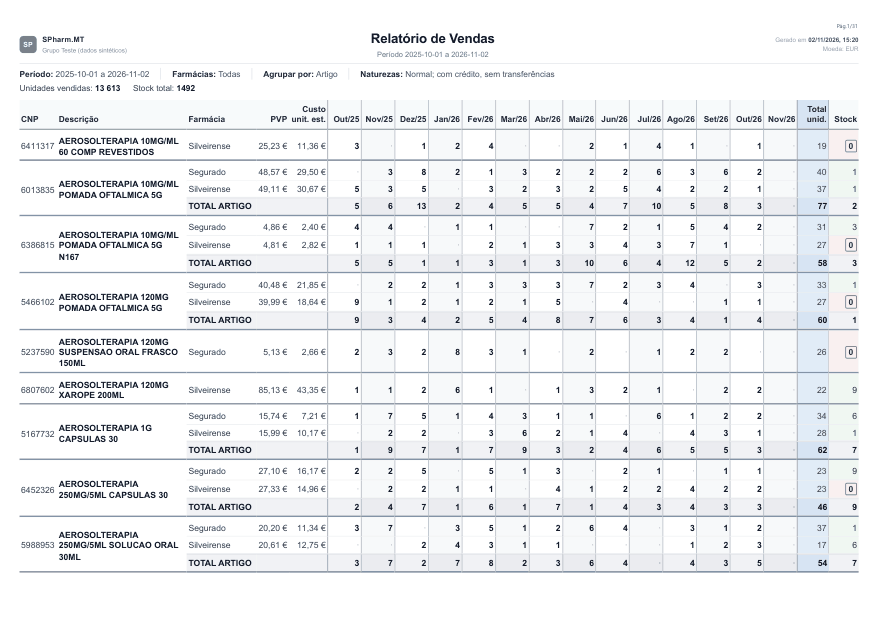
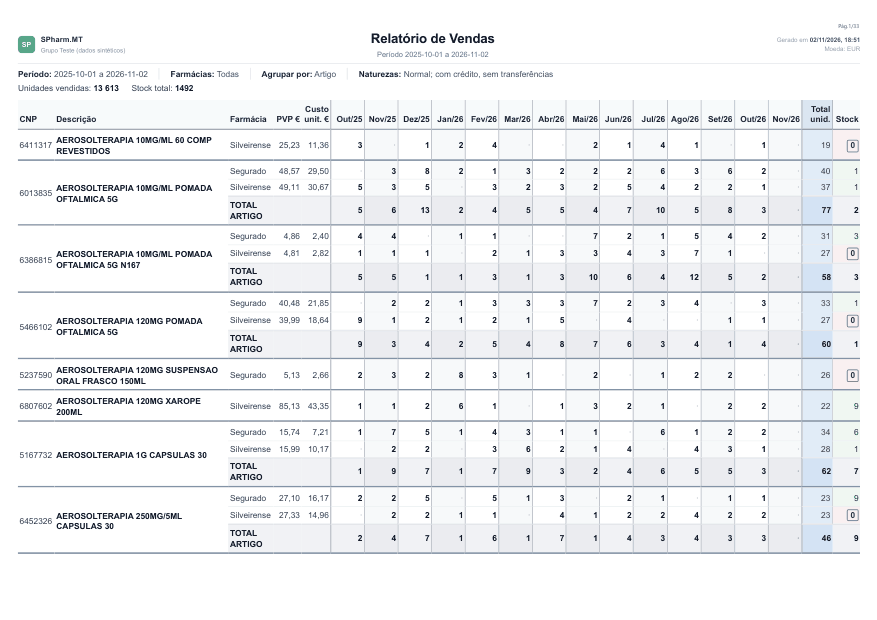
docs(vendas): limites numéricos, orçamento de largura, análise agregada do PDF real e evidência sintética (substitui capturas obsoletas)
Evidência com páginas do PDF real só em C:/projetos/_entregas (fora do Git).

diff --git a/scripts/e2e/gerar-pdf-cenario.ts b/scripts/e2e/gerar-pdf-cenario.ts
@@ -1,0 +1,21 @@
+/**
+ * Gera, com as opções do endpoint, os PDFs dos cenários SINTÉTICOS «PDF real ×1», «PDF real ×10» e «pior caso» (3 farmácias):
+ *   cd <árvore> && OUT=<pasta> npx tsx scripts/e2e/gerar-pdf-cenario.ts      →  <OUT>/real-x1.pdf, real-x10.pdf, pior-caso-3f.pdf
+ */
+import { mkdirSync } from "node:fs";
+import path from "node:path";
+import { dadosPiorCaso, dadosRealMult, FARMACIAS_3, FARMACIAS_CLIENTE } from "../tests/_cliente-real";
+import { abrirBrowser, pdfDe, relatorioLinhas } from "../tests/_tabela-unica";
+
+(async () => {
+  const out = process.env.OUT ?? "out";
+  mkdirSync(out, { recursive: true });
+  const b = await abrirBrowser();
+  const cen: [string, ReturnType<typeof relatorioLinhas>][] = [
+    ["real-x1", relatorioLinhas(dadosRealMult(1), 14, FARMACIAS_CLIENTE)],
+    ["real-x10", relatorioLinhas(dadosRealMult(10), 14, FARMACIAS_CLIENTE)],
+    ["pior-caso-3f", relatorioLinhas(dadosPiorCaso({ nFarm: 3, mesGrande: 99999, total: 999000, stock: 999000 }), 14, FARMACIAS_3)],
+  ];
+  for (const [nome, rel] of cen) console.log(await pdfDe(b, rel, path.join(out, `${nome}.pdf`)));
+  await b.close();
+})();

diff --git a/scripts/e2e/_evidencia_real.py b/scripts/e2e/_evidencia_real.py
@@ -1,0 +1,99 @@
+"""Evidência lado a lado: PDF REAL do cliente vs novo PDF A4 (cenário sintético «igual ou mais exigente»), à escala física 100 % (100 dpi:
+1 px = 0,254 mm; A4 horizontal = 1169 × 827 px).
+
+Uso: python _evidencia_real.py <real.pdf> <novo.pdf> <pasta_saida>
+Escreve FORA do Git (pasta de entregas): páginas 1, 29 e 57 do real; 1.ª, intermédia e última do novo; montagem com recorte; medidas e provas (md).
+O PDF real é dado comercial: nunca vai para o repositório.
+"""
+import collections
+import io
+import re
+import sys
+
+import pymupdf
+from PIL import Image, ImageDraw, ImageFont
+
+real_pdf, novo_pdf, out = sys.argv[1:4]
+MM = 25.4 / 72
+real, novo = pymupdf.open(real_pdf), pymupdf.open(novo_pdf)
+try:
+    F = ImageFont.truetype("C:/Windows/Fonts/arialbd.ttf", 22); FP = ImageFont.truetype("C:/Windows/Fonts/arial.ttf", 16)
+except Exception:
+    F = FP = ImageFont.load_default()
+
+
+def img(doc, i, dpi=100, clip=None):
+    pg = doc[i]
+    pix = pg.get_pixmap(dpi=dpi, clip=clip)
+    return Image.open(io.BytesIO(pix.tobytes("png"))).convert("RGB")
+
+
+def guardar(im, nome):
+    im.quantize(colors=64, method=Image.Quantize.MEDIANCUT).save(f"{out}/{nome}", optimize=True)
+    print(nome, im.size)
+
+
+meio_novo = novo.page_count // 2
+for nome, doc, i in [("real-p01.png", real, 0), ("real-p29-bloco2.png", real, 28), ("real-p57-ultima.png", real, real.page_count - 1),
+                     ("novo-p01.png", novo, 0), (f"novo-p{meio_novo + 1:02d}-intermedia.png", novo, meio_novo), (f"novo-p{novo.page_count:02d}-ultima.png", novo, novo.page_count - 1)]:
+    guardar(img(doc, i), nome)
+
+# montagem: linha 1 = páginas inteiras a 100 dpi lado a lado; linha 2 = recorte de 100 × 62 mm do canto sup. esquerdo (zona da tabela) a 200 dpi
+a, b = img(real, 0), img(novo, 0)
+clip = pymupdf.Rect(real[0].rect.width * 0.42, 80, real[0].rect.width * 0.42 + 100 / MM, 80 + 62 / MM)
+ca, cb = img(real, 0, 200, clip), img(novo, 0, 200, clip)
+W = a.width + b.width + 3 * 24
+H = 70 + a.height + 40 + 30 + ca.height + 24
+cv = Image.new("RGB", (W, H), "white")
+d = ImageDraw.Draw(cv)
+d.text((24, 8), "Escala física 100 % (100 dpi): A4 horizontal = 1169 × 827 px; 1 px = 0,254 mm", fill="black", font=FP)
+d.text((24, 32), "ESQUERDA: PDF real do cliente (57 págs., Segoe UI 6-7,5 pt, «Parte 1 de 2»)", fill=(150, 0, 0), font=F)
+d.text((a.width + 48, 32), "DIREITA: novo A4 (" + str(novo.page_count) + " págs., Arial 8,025 pt, 14 meses numa só tabela)", fill=(0, 100, 0), font=F)
+cv.paste(a, (24, 70)); cv.paste(b, (a.width + 48, 70))
+y2 = 70 + a.height + 20
+d.text((24, y2), "Recorte de 100 × 62 mm a 200 dpi (mesma zona, meses do meio da tabela, ampliado 2× só para leitura no ecrã)", fill="black", font=FP)
+cv.paste(ca, (24, y2 + 30)); cv.paste(cb, (a.width + 48, y2 + 30))
+guardar(cv, "montagem-real-vs-novo.png")
+
+
+# ---- medidas de letra e provas
+def fontes(doc):
+    c = collections.Counter()
+    for p in doc:
+        for bl in p.get_text("dict")["blocks"]:
+            for l in bl.get("lines", []):
+                for s in l["spans"]:
+                    c[(round(s["size"], 2), s["font"])] += len(s["text"])
+    return c
+
+
+def provas(doc, nome):
+    cnps_col = []
+    tg = rs = 0
+    meses_pag = []
+    tam = collections.Counter()
+    for p in doc:
+        w = p.get_text("words")
+        w0 = p.rect.width
+        cnps_col += [x[4] for x in w if re.fullmatch(r"\d{7}", x[4]) and x[0] < w0 * 0.12]
+        tg += sum(1 for x in w if x[4] == "GERAL")
+        rs += sum(1 for x in w if x[4] == "RESUMO")
+        meses_pag.append(sum(1 for x in w if re.fullmatch(r"(Jan|Fev|Mar|Abr|Mai|Jun|Jul|Ago|Set|Out|Nov|Dez)/\d\d", x[4])))
+    return {"nome": nome, "paginas": doc.page_count, "A4": f"{doc[0].rect.width:.1f}x{doc[0].rect.height:.1f}", "cnp_ocorrencias": len(cnps_col), "cnp_distintos": len(set(cnps_col)),
+            "TOTAL_GERAL": tg, "RESUMO": rs, "meses_por_pagina_min_max": (min(meses_pag), max(meses_pag))}
+
+
+L = ["# Medidas e provas — PDF real vs novo A4 (cenário sintético ×10)", "", "## Tamanhos de letra (caracteres por tamanho/tipo)", ""]
+for nome, doc in (("REAL", real), ("NOVO", novo)):
+    c = fontes(doc); tot = sum(c.values())
+    L.append(f"**{nome}** ({tot} caracteres):")
+    for (s, f), n in c.most_common(8):
+        L.append(f"- {s} pt {f}: {n} ({100 * n / tot:.1f} %)")
+    L.append("")
+L += ["## Provas por script", "", "| PDF | páginas | página (pt) | CNP na coluna CNP (ocorrências) | CNP distintos | «GERAL» | «RESUMO» | cabeçalhos «Mmm/AA» por página (mín–máx) |", "|---|---|---|---|---|---|---|---|"]
+for nome, doc in (("real", real), ("novo", novo)):
+    p = provas(doc, nome)
+    L.append(f"| {p['nome']} | {p['paginas']} | {p['A4']} | {p['cnp_ocorrencias']} | {p['cnp_distintos']} | {p['TOTAL_GERAL']} | {p['RESUMO']} | {p['meses_por_pagina_min_max']} |")
+L += ["", "No real, cada CNP aparece 2× (um por «Parte») e os cabeçalhos «Mmm/AA» não existem (meses em duas linhas, 7 por parte). No novo: 326 = 326, um só TOTAL GERAL, um só resumo, 14 meses em cada página."]
+open(f"{out}/medidas-e-provas.md", "w", encoding="utf8").write("\n".join(L) + "\n")
+print("\n".join(L))

diff --git a/scripts/e2e/_comparar_a4.py b/scripts/e2e/_comparar_a4.py
@@ -20,7 +20,7 @@ import pymupdf
 from PIL import Image, ImageDraw, ImageFont
 
 a_pdf, b_pdf, c_pdf, out = sys.argv[1:5]
-ROT = [("A", "A · PDF atual (a012428): blocos temporais, A4", a_pdf), ("B", "B · solução A3 automática (4d4ef19) — rejeitada", b_pdf), ("C", "C · NOVA: A4 horizontal, tabela única (corpo 8,25 pt, cabeçalhos 8 pt)", c_pdf)]
+ROT = [("A", "A · PDF atual (a012428): blocos temporais, A4", a_pdf), ("B", "B · solução A3 automática (4d4ef19) — rejeitada", b_pdf), ("C", "C · NOVA: A4 horizontal, tabela única (corpo e cabeçalhos 8,025 pt)", c_pdf)]
 MM = 25.4 / 72
 try:
     FONTE = ImageFont.truetype("C:/Windows/Fonts/arialbd.ttf", 22)

diff --git a/notes/vendas-tabela-unica.md b/notes/vendas-tabela-unica.md
@@ -21,30 +21,53 @@ O PDF de `a012428` repartia o período em «blocos temporais» (Parte 1 de 2 / P
 ## 2. Decisões (o que mudou face ao 1.º desenho)
 
 - **Formato**: A4 horizontal (297×210 mm) SEMPRE — PDF, impressão, PDF do email, pré-visualização. Sem A3, sem escala, sem blocos.
-- **Tipografia** (`lib/reporting/layout-largura.ts`): corpo da tabela (CNP, Descrição, Farmácia, PVP, custo, **meses**, total, stock) **8,25 pt** (11 px;
-  o mesmo que os números da solução A3 rejeitada); cabeçalhos a negrito **8 pt**; CNP e Descrição = valores mensais. Nunca abaixo de 8 pt. Tipo de letra
-  fixo `Arial, "Liberation Sans"` (métricas Arial; o contentor tem `fonts-liberation`), por isso a largura calcula-se com larguras reais de glifo
-  (`metricas-fonte.ts`, validado contra o PDF: «Nov/26» 34,96 px medido vs 35,0 calculado).
-- **Colunas da tabela**: CNP · Descrição · Farmácia · PVP* · Custo unit. est.* · N meses «Out/25» (uma linha) · **Total unid.** · **Stock** (*opções de preços).
-- **Totais financeiros fora da tabela**: «Custo total est.» e «Valor Vendas (s/IVA)» passam a `excelOnly` (semântica confirmada: só no Excel, nunca em
-  HTML/PDF/impressão) e os seus totais vão para o **RESUMO FINANCEIRO** no fim (`meta.resumoFinal`, uma só vez): Unidades vendidas, Stock total, Custo total
-  estimado (só com preços de compra; «PARCIAL: N linha(s) sem custo conhecido» — a lógica de `custoTotalDoRelatorio`), Valor total de vendas s/IVA (só com
-  preços de venda). Sem preços → título «Resumo» só com unidades e stock. `aplicarPrivacidade` retira os itens sensíveis (também no servidor).
-- **TOTAL ARTIGO**: só com > 1 farmácia; só totais mensais, total de unidades e stock; PVP/custo unit. **vazios** no HTML/PDF (`ReportColumn.vazioNoSubtotal`);
-  no Excel a linha mantém-se como estava.
-- **Excel idêntico a a012428** (comparação célula a célula, ver §5): para > 13 meses `a012428` trazia «Período: …» e os totais depois do Stock; essa folha mantém-se
-  exatamente (posições e rótulos), só no Excel (`label`; o HTML usa `htmlLabel`).
-- **Larguras (ordem de prioridade)**: meses abreviados «Out/25» → margens laterais **6,5 mm** (≥ 5 mm de segurança) → padding horizontal 5→4→3→2,5→2 px **antes**
-  de tocar na letra → mês com a largura do seu maior texto (dados: dígitos, sinal, separador) → Descrição com quebra (mín. 32 mm, preferida 48 mm) →
-  PVP/custo compactos → totais financeiros fora. Nunca truncar nem reticências.
-- **Excesso**: `capacidadeA4(dados, opcoes)` (função pura) → `{cabe, mesesMax, padPx, pct…, mensagem}`; `capacidadeDoRelatorio(report)` (lib/reporting/layout-vendas.ts) usa-a
-  no adapter, no servidor e na UI. Se não cabe: **não há PDF/impressão/PDF de email/pré-visualização**; mensagem
-  **«O período de N meses não cabe numa página A4 legível (máximo M meses com estas opções). Reduza o período, retire preços ou use o Excel.»**;
-  `/api/reports/pdf` e `/api/reports/email` (com PDF) → **HTTP 422** com o mesmo texto; o Excel e a tabela do ecrã continuam sem limite. Onde: `ReportActions`
-  (aviso ao clicar Imprimir/PDF, aviso no diálogo de email), `printReport`, `renderReportHtml` (devolve só a mensagem — é o que a pré-visualização «Relatório» mostra),
-  `buildReportPdfBuffer` (erro tipado `RelatorioNaoCabeA4Error`). `components/vendas/vendas-client.tsx` **não foi alterado**.
-- Período > capacidade: **análise e proposta** (trimestres, por farmácia, etc.) em `notes/vendas-periodos-longos-proposta.md` — sem decisão.
+- **Tipografia**: TUDO na tabela (corpo e cabeçalhos) a **10,7 px = 8,025 pt** (o PDF mede 8,02 pt; ≥ 8,0 pt). CNP e Descrição = valores mensais. Tipo de letra fixo
+  `Arial, "Liberation Sans"` (métricas Arial; o contentor tem `fonts-liberation`), por isso a largura calcula-se com larguras reais de glifo (`metricas-fonte.ts`).
+  (Decisão revista: o corpo esteve a 8,25 pt; baixou-se a 8,025 pt para garantir os 14 meses nos limites abaixo. Os meses ficam 0,23 pt abaixo dos 8,25 pt da solução A3 rejeitada.)
+- **Colunas da tabela**: CNP · Descrição · Farmácia · PVP €* · Custo unit. €* · N meses «Out/25» (uma linha) · **Total unid.** · **Stock** (*opções de preços).
+- **«€» no cabeçalho**: as células de PVP e custo unitário mostram «9999,99» sem « €»; o símbolo está no cabeçalho («PVP €», «Custo unit. €»). Só HTML/PDF/impressão
+  (`ReportColumn.semSimbolo` + `htmlLabel`); o Excel continua com o formato monetário e os rótulos de sempre.
+- **Totais financeiros fora da tabela**: «Custo total est.» e «Valor Vendas (s/IVA)» são `excelOnly` e os seus totais vão para o **RESUMO FINANCEIRO** no fim (`meta.resumoFinal`, uma só
+  vez): Unidades vendidas, Stock total, Custo total estimado (só com preços de compra; «PARCIAL: N linha(s) sem custo conhecido»), Valor total de vendas s/IVA (só com preços de venda).
+  Sem preços → título «Resumo» só com unidades e stock. `aplicarPrivacidade` retira os itens sensíveis (também no servidor).
+- **TOTAL ARTIGO**: só com > 1 farmácia; só totais mensais, total de unidades e stock; PVP/custo vazios no HTML/PDF; o rótulo quebra em duas linhas («TOTAL / ARTIGO»).
+- **Farmácia**: coluna elástica que quebra linha (`ReportColumn.quebra`): conteúdo ≤ 54 px (cabe «Silveirense»); nomes longos (até 32 caracteres testados) quebram entre palavras e dentro da palavra.
+- **Excel idêntico a a012428** (12 cenários, célula a célula). Para > 13 meses `a012428` trazia «Período: …» e os totais depois do Stock; essa folha mantém-se exatamente.
+- **Excesso e GARANTIA DOS 14 MESES** (`lib/reporting/layout-largura.ts`, função pura `capacidadeA4`):
+  - **Até 14 meses** a decisão NÃO depende de heurística sobre os dados: dentro dos **limites numéricos fixos** abaixo, 14 meses (e menos) CABEM SEMPRE, com preços de venda E de compra,
+    corpo ≥ 8 pt, Descrição ≥ 45 mm e sem cortar nada. A prova é o orçamento de largura do pior caso simultâneo (`orcamentoPiorCaso`, teste «PROVA POR CÁLCULO») e uma grelha de 13 824 combinações.
+  - **Só se recusa (HTTP 422)** quando algum valor ultrapassa um limite; a mensagem diz o valor e o limite concretos, p.ex.
+    «PVP de 12 345,67 € excede o limite de 9 999,99 € do PDF A4 legível. Reduza a seleção, retire preços ou use o Excel.» (idem custo unitário, valor mensal, total de unidades, stock).
+    Com «Incluir preços de venda/compra» desligado o respetivo limite não se aplica.
+  - **Acima de 14 meses** a capacidade depende dos DADOS (largura do maior texto de cada coluna) e a mensagem é
+    **«O período de N meses não cabe numa página A4 legível (máximo M meses com estas opções). Reduza o período, retire preços ou use o Excel.»**
+  - Onde: `ReportActions` (aviso ao clicar Imprimir/PDF e no diálogo de email; o aviso é `pointer-events-none` e desaparece em 8 s), `printReport`, `renderReportHtml` (só a mensagem — é o que a pré-visualização
+    mostra), `buildReportPdfBuffer` (`RelatorioNaoCabeA4Error`), rotas `/api/reports/pdf` e `/api/reports/email` (422). `components/vendas/vendas-client.tsx` **não foi alterado**.
+- Períodos de 24/27 meses: **análise e proposta** em `notes/vendas-periodos-longos-proposta.md` — sem decisão.
 
+### Limites numéricos fixos (valores em módulo)
+| Valor | Limite |
+|---|---|
+| PVP e custo unitário | **9 999,99 €** |
+| Qualquer valor mensal (célula, TOTAL ARTIGO, TOTAL GERAL), positivo ou negativo | **99 999** (inclui «−99 999») |
+| Total unid. e Stock (linhas, TOTAL ARTIGO, TOTAL GERAL) | **999 999** (inclui negativos) |
+| Descrição | qualquer comprimento (quebra); largura garantida **≥ 45 mm** |
+| Farmácia | qualquer nome (quebra); 2 e 3 farmácias por artigo |
+| Meses garantidos | **14** |
+
+### Orçamento de largura do pior caso (mm; 14 meses; padding 1,5 px; margens laterais de 6 mm ⇒ útil 285 mm)
+Larguras de glifo reais (Arial Bold 10,7 px, +1 % e +1 px de segurança); pior caso simultâneo: PVP/custo «9999,99», mensal «-99 999», total/stock «-999 999», CNP de 7 dígitos, «Silveirense».
+
+| venda | compra | CNP | Farmácia | PVP € | Custo € | Total unid. | Stock | 14 × mês (11,28 cada) | fixos + meses | sobra para a Descrição |
+|---|---|---|---|---|---|---|---|---|---|---|
+| sim | sim | 12,2 | 15,1 | 11,4 | 11,4 | 12,9 | 13,9 | 158,0 | 234,8 | **50,2** |
+| sim | não | 12,2 | 15,1 | 11,4 | — | 12,9 | 13,9 | 158,0 | 223,5 | 61,5 |
+| não | sim | 12,2 | 15,1 | — | 11,4 | 12,9 | 13,9 | 158,0 | 223,5 | 61,5 |
+| não | não | 12,2 | 15,1 | — | — | 12,9 | 13,9 | 158,0 | 212,1 | 72,9 |
+
+Poupanças de largura aplicadas por esta ordem (sem baixar de 8 pt): cabeçalhos compactos («PVP €», «Custo unit. €», «Out/25»), «€» fora das células, margens de 6 mm, padding 5 → 1,5 px
+(quando os dados reais deixam espaço o padding sobe; com o pior caso fica em 1,5 px), Farmácia a quebrar linha, larguras por dígitos máximos dos limites, Descrição como coluna elástica.
+Mês: «-99 999» = 37,3 px vs «Nov/26» a negrito = 35 px.
 ## 3. Regra final de paginação (só vertical)
 - Cada artigo (farmácias + TOTAL ARTIGO) é um `<tbody class="row-group">` com `break-inside: avoid`: **nunca dividido** (verificado em PDFs de 12-56 artigos e no PDF de 31 páginas).
 - `thead { display: table-header-group }` repete o cabeçalho completo (os 14 meses…) em todas as páginas; sem `<tfoot>`.
@@ -53,85 +76,44 @@ O PDF de `a012428` repartia o período em «blocos temporais» (Parte 1 de 2 / P
   só com totais (varrimento de 12 a 56 artigos, `test-vendas-tabela-unica` C5). Filete de 2 px entre artigos (borda inferior da última linha) e separadores verticais
   de mês de 1 px mantêm-se.
 
-## 4. Capacidade (nº máximo de meses numa página A4 horizontal, corpo 8,25 pt)
+## 4. Capacidade acima de 14 meses (depende dos dados; margens de 6 mm, útil 285 mm)
 
-Largura útil 284 mm. Larguras mínimas com os dados do cliente (pad 2 px): CNP 12,8 · Farmácia 23,4 · PVP 11,1 · Custo unit. 13,0 · Total unid. 10,8 · Stock 10,0 mm · **mês 11,4 mm** · Descrição ≥ 32 mm.
-
-| Preços de venda | Preços de compra | dados moderados (totais mensais até 4 dígitos, PVP ≤ 91,80 €) | extremos (123 456 un., −12 345, 12 345,67 €, 1 234 567 total) |
+| Preços de venda | Preços de compra | dados moderados (≤ 1 077 por mês; PVP ≤ 91,80 €) | pior caso dos limites |
 |---|---|---|---|
-| sim | sim | **14** | 10 |
-| sim | não | 16 | 11 |
-| não | sim | 15 | 11 |
-| não | não | 17 | 12 |
+| sim | sim | 15 | 14 |
+| sim | não | 16 | 15 |
+| não | sim | 16 | 15 |
+| não | não | 17 | 16 |
 
-(O requisito de 14 meses cumpre-se, com folga mínima, só com todos os preços ligados e dados moderados; com os dados do cliente: 14 meses, Descrição 43,9 mm.) 24 e 27 meses
-**não cabem em nenhuma combinação** → mensagem.
-
+Até 14 meses: **sempre cabe** dentro dos limites (ver §2). 24 e 27 meses não cabem em nenhuma combinação → mensagem.
 ## 5. Testes (comandos e resultados)
 
-`TEST_PG_ADMIN_URL=postgresql://postgres:test@localhost:15433/postgres npx tsx scripts/tests/<teste>.ts`
+`export TEST_PG_ADMIN_URL=postgresql://postgres:test@localhost:15433/postgres; npx tsx scripts/tests/<teste>.ts` — resultados finais no relatório de entrega (SHA final).
 
-| Teste | Resultado |
-|---|---|
-| `test-vendas-tabela-unica` (reescrito: capacidade pura, estrutura, ~45 PDFs reais, impressão, Excel vs a012428, 24/27 meses, rotas HTTP reais 200/422, outros relatórios, controlo negativo) | **189 OK, 0 falhas** |
-| `test-vendas-mapa-visual` | 316 OK |
-| `test-vendas-pdf-layout` | 42 OK |
-| `test-vendas-impressao-hierarquia` | 26 OK |
-| `test-vendas-separadores-meses` | 55 OK |
-| `test-vendas-precos-pvp-stock` | 134 OK |
-| `test-reporting-redesign` | 133 OK |
-| `test-reporting-uniformizacao` | 107 OK |
-| `test-margens` / `test-margens-pdf-modos` / `test-margens-stock` | 118 / 382 / 159 OK |
-| `test-workspace-separadores` / `test-export-cabecalho-laboratorio` / `test-export-mesma-ordem-do-ecra` | 37 / 27 / 28 OK |
-| `test-vendas-loader-pvp-stock-db` (Postgres descartável) | 24 OK |
-| `tsc --noEmit`, `eslint` (lib/reporting, components/reporting, app/api/reports, testes novos) | 0 erros |
+`test-vendas-tabela-unica` cobre: capacidade pura (limites, orçamento do pior caso, grelha de 13 824 combinações, mensagens com o limite concreto, capacidade > 14 meses); estrutura (colunas,
+«€» no cabeçalho, resumo financeiro por combinação, TOTAL ARTIGO, Excel); PDFs reais (Chromium → PyMuPDF + geometria no DOM) de 1/3/6/12/13/14 meses, capacidade máxima, 1/2/3 farmácias,
+**«PDF real ×1 e ×10»** (326 artigos, 326 CNP distintos = 326 ocorrências, 1 TOTAL GERAL, 1 resumo, 14 cabeçalhos de mês por página), PVP/custo de 9,99 / 99,99 / 999,99 / 9 999,99 €,
+valores mensais de 9 … 99 999 (±), total/stock até 999 000, **pior caso simultâneo** com 2 e 3 farmácias e as 4 combinações de preços, varrimento de paginação, impressão = PDF, Excel idêntico a a012428,
+24/27 meses → mensagem, rotas HTTP reais (200/422), HTML/CSS de outros relatórios idênticos a a012428, controlo negativo.
+Em cada PDF: A4 horizontal, 14 meses na mesma tabela, corpo ≥ 8 pt, nenhuma célula a transbordar (Range vs caixa), nenhum token fora da sua coluna, nenhum CNP repetido, nenhum artigo dividido, um TOTAL GERAL e um resumo.
 
-Falhas pré-existentes (idênticas em `a012428`, não relacionadas): `test-fase1-economia-ordenacao` (3), `test-excessos-transferencias` (2).
+Testes antigos alterados (afirmavam o desenho anterior; comentário «2026-11»): `test-vendas-pdf-layout`, `test-vendas-precos-pvp-stock` (sentinelas ≤ 9 999,99 €: os de 11 111,11 € ultrapassam o limite), `test-reporting-redesign`,
+`test-vendas-mapa-visual` (idem; «TOTAL ARTIGO» em duas linhas), `test-vendas-separadores-meses`. E2E: `vendas-tabela-unica-browser`, `vendas-mapa-visual-browser` (custos de teste ≤ 9 999,99 €), `vendas-opcoes-browser`,
+`vendas-separador-browser`, `vendas-separadores-meses-browser`.
 
-O que o `test-vendas-tabela-unica` prova (sobre PDFs REAIS lidos com PyMuPDF e a geometria das colunas no DOM em mídia print): A4 horizontal em todas as páginas (841,9×595 pt); 14 meses
-«Out/25…Nov/26» na MESMA tabela e página; cada CNP uma só vez, em sequência; cada valor por linha = o do relatório (PVP, custo, meses, total, stock); PVP/custo vazios no TOTAL ARTIGO;
-letra do corpo 8,25 pt (7,99 pt os cabeçalhos = 8 pt, arredondamento do Chromium), CNP/Descrição ≥ meses; nenhuma célula a transbordar (Range vs caixa de conteúdo) nem token fora da sua coluna;
-um só «Total unid.», um só «Stock», um só TOTAL GERAL e um só resumo, no fim e com artigos; artigo nunca dividido; sem «Parte/bloco/Período:»; separadores verticais dos meses (15 por página); impressão = PDF
-do endpoint (mesmo texto página a página); pré-visualização = impressão = PDF = email (mesmo HTML); Excel **idêntico** a `a012428` em 12 cenários (todas as células, tipos, formatos, larguras, fusões, filtro;
-1/3/6/12/13/14/24/27 meses, 4 combinações de preços, valores extremos, agrupar por farmácia); 1, 3, 6, 12, 13, 14 meses e capacidade máxima por combinação, 1/2/3 farmácias, valores elevados/negativos;
-24 e 27 meses: mensagem exata, sem tabela, Excel completo, rotas reais 422; HTML e CSS de outros relatórios byte a byte iguais aos de a012428; controlo negativo (a análise acusa letra de 7 pt e colunas erradas).
-
-Testes antigos alterados (afirmavam o desenho anterior; cada alteração tem comentário «2026-11»): `test-vendas-pdf-layout` (meses «Jan/26» numa linha, «Total unid.»), `test-vendas-precos-pvp-stock`
-(cabeçalhos sem «Valor Vendas»/«Custo total», resumo financeiro por combinação, 27 meses lidos nas colunas), `test-reporting-redesign` (sem densidade; TOTAL ARTIGO com células vazias em vez de «—»),
-`test-vendas-mapa-visual` (custo total por linha só no Excel; totais no resumo; sem «+1 px»; tom de mês sólido; 27 meses → mensagem), `test-vendas-separadores-meses` (27 meses → capacidade máxima).
-E2E escritos e **não executados**: `vendas-tabela-unica-browser` (reescrito), `vendas-mapa-visual-browser`, `vendas-opcoes-browser`, `vendas-separador-browser`, `vendas-separadores-meses-browser`.
-
-## 6. Evidência (`docs/validacao-visual/2026-11-vendas-tabela-unica/`)
-
-Dados sintéticos calibrados (`scripts/tests/_cliente-real.ts`): 326 artigos, Segurado + Silveirense, 14 meses, TOTAL GERAL 980…15 por mês (máx. 1 077), 13 613 unidades (o real: 14 350 — inconciliável com
-máx. 1 077/mês), stock 1 492 (máx. 133), PVP ≤ 91,80 €, custo ≤ 48,18 €.
-
-| Ficheiro | Conteúdo |
-|---|---|
-| `montagem-comparacao-escala-fisica.png` | linha 1: 1.ª página de A (a012428, 57 pág.), B (A3 rejeitado, 20 pág.) e C (nova, 31 pág.) ao mesmo DPI; linha 2: recorte de 297×210 mm do mesmo canto de cada, a 100 dpi |
-| `medidas-comparacao.md` | tamanhos de letra e altura de algarismo medidos nas spans (A, B, C) |
-| `comparacao-A-…-p1.png`, `comparacao-B-A3-p1.png`, `comparacao-C-A4-p1.png` | 1.ª página de cada um |
-| `depois-A4-14m-p1.png`, `-pmid.png`, `-ultima.png` | A4 horizontal, 14 meses numa tabela; última página com o fim do último artigo, TOTAL GERAL e resumo financeiro |
-| `depois-excesso-27m-mensagem.png` | pré-visualização/PDF para 27 meses: só a mensagem |
-| `antes-vendas-14m-*`, `antes-vendas-27m-*`, `antes-vendas-14m-24-artigos.pdf` | mantidos (a012428: blocos) |
-
-Medidas (PyMuPDF; mm = pt × 0,3528; algarismo = tamanho × 0,716):
-
-| | papel | pág. | CNP | Descrição | valores mensais | cabeçalhos |
-|---|---|---|---|---|---|---|
-| A · a012428 | A4 | 57 | 6,75 pt (1,71 mm) | 6,75 pt | 7,5 pt (1,89 mm) | 6,0 pt (1,52 mm) |
-| B · A3 rejeitado | **A3** | 20 | 7,5 pt (1,89 mm) | 7,5 pt | 8,25 pt (2,08 mm) | 6,75 pt (1,71 mm) |
-| C · nova | A4 | 31 | **8,25 pt (2,08 mm)** | 8,25 pt | **8,25 pt (2,08 mm)** | **8,0 pt (2,02 mm)** |
-
-Logo, fisicamente a letra de C ≥ B (mesmo A3) e > A em todas as categorias, e a tabela cabe num único A4.
-
+**Falhas pré-existentes** (idênticas em `a012428`): `test-fase1-economia-ordenacao` (3), `test-excessos-transferencias` (2).
+## 6. Evidência
+- **No Git** (`docs/validacao-visual/2026-11-vendas-tabela-unica/`, só dados SINTÉTICOS): `montagem-comparacao-escala-fisica.png` (A: a012428, B: A3 rejeitado, C: nova, mesma escala), `medidas-comparacao.md`,
+  `depois-A4-x10-p1/-pmid/-ultima.png` (cenário «real ×10»), `depois-A4-pior-caso-3f-p1.png` (pior caso, 3 farmácias), `depois-excesso-27m-mensagem.png`, `antes-*` (a012428).
+- **Fora do Git** (`C:\projetos\_entregas\vendas-a4-evidencia\`): páginas do PDF REAL (1, 29, 57) e do novo (1, intermédia, última) a 100 dpi (= escala física 100 %: 1 px = 0,254 mm; A4 horizontal = 1169 × 827 px),
+  `montagem-real-vs-novo.png`, `medidas-e-provas.md` (fontes, 326 = 326 CNP, 1 TOTAL GERAL, 1 resumo, 14 cabeçalhos por página). Análise agregada do PDF real: `notes/vendas-pdf-real-analise.md`.
+- Medidas A/B/C sintéticas: A (a012428) CNP/Descrição 6,75 pt, meses 7,5 pt, cabeçalhos 6,0 pt; B (A3) 7,5 / 8,25 / 6,75 pt; C (nova) **8,02 pt em tudo**.
 ## 7. Riscos
-- Capacidade com folga mínima: 14 meses com todos os preços e dados moderados cabem (Descrição 43,9 mm no caso do cliente), mas valores muito largos (PVP ≥ 100 €, 6 dígitos num mês) reduzem a capacidade para 10-13 meses → mensagem. É deliberado (nunca letra < 8 pt).
-- A capacidade (e o «máximo M») depende dos dados do resultado selecionado, não só do período.
-- Larguras assumem Arial/Liberation Sans. Num browser sem nenhuma das duas, a pré-visualização/impressão pode quebrar; o PDF do servidor usa o Chromium do contentor (fonts-liberation instalado — `deploy/docker/Dockerfile`).
-- O Excel de > 13 meses conserva as etiquetas «Período: …» de a012428 (decisão para não mudar o Excel).
-- PDF: o Chromium gera PDFs «tagged» (~200 KB/página); inalterado (opção do endpoint).
-- E2E de browser não executados; ver §8.
+- Os 14 meses só são garantidos DENTRO dos limites (PVP/custo ≤ 9 999,99 €, mensal ≤ 99 999, total/stock ≤ 999 999); acima, 422 com o limite concreto.
+- Padding de 1,5 px nos casos extremos: valores adjacentes («9999,99 9999,99») ficam separados só pelo padding (legíveis, ver `depois-A4-pior-caso-3f-p1.png`).
+- Acima de 14 meses a capacidade depende dos dados do resultado selecionado.
+- Larguras assumem Arial/Liberation Sans; num browser sem nenhuma das duas a pré-visualização/impressão pode quebrar; o PDF do servidor usa o Chromium do contentor (`fonts-liberation`).
+- O Excel de > 13 meses conserva as etiquetas «Período: …» de a012428. PDF «tagged» (~200 KB/página) inalterado.
 
 ## 8. A validar no clone limpo (coordenador)
 1. `npx tsc --noEmit`; `npx eslint lib/reporting components/reporting app/api/reports scripts/tests scripts/e2e/vendas-*.ts`.

diff --git a/docs/validacao-visual/2026-11-vendas-tabela-unica/medidas-comparacao.md b/docs/validacao-visual/2026-11-vendas-tabela-unica/medidas-comparacao.md
@@ -12,7 +12,7 @@ Tamanho de letra lido das spans do PDF (PyMuPDF); `dígito (mm)` = altura de um 
 | B · solução A3 automática (4d4ef19) — rejeitada | 20 | 420.2 × 297.0 | Descrição | 87 | 7.5 | 9.98 | 1.894 | SegoeUI-Semibold |
 | B · solução A3 automática (4d4ef19) — rejeitada | 20 | 420.2 × 297.0 | Valores mensais | 1168 | 8.25 | 10.97 | 2.084 | SegoeUI-Semibold |
 | B · solução A3 automática (4d4ef19) — rejeitada | 20 | 420.2 × 297.0 | Cabeçalhos (meses/total/stock) | 55 | 6.75 | 8.98 | 1.705 | SegoeUI-Semibold |
-| C · NOVA: A4 horizontal, tabela única (corpo 8,25 pt, cabeçalhos 8 pt) | 31 | 297.0 × 209.9 | CNP | 20 | 8.25 | 9.22 | 2.084 | ArialMT |
-| C · NOVA: A4 horizontal, tabela única (corpo 8,25 pt, cabeçalhos 8 pt) | 31 | 297.0 × 209.9 | Descrição | 51 | 8.25 | 9.22 | 2.084 | Arial-BoldMT |
-| C · NOVA: A4 horizontal, tabela única (corpo 8,25 pt, cabeçalhos 8 pt) | 31 | 297.0 × 209.9 | Valores mensais | 616 | 8.25 | 9.22 | 2.084 | Arial-BoldMT |
-| C · NOVA: A4 horizontal, tabela única (corpo 8,25 pt, cabeçalhos 8 pt) | 31 | 297.0 × 209.9 | Cabeçalhos (meses/total/stock) | 42 | 7.99 | 8.93 | 2.019 | Arial-BoldMT |
+| C · NOVA: A4 horizontal, tabela única (corpo e cabeçalhos 8,025 pt) | 33 | 297.0 × 209.9 | CNP | 19 | 8.02 | 8.97 | 2.027 | ArialMT |
+| C · NOVA: A4 horizontal, tabela única (corpo e cabeçalhos 8,025 pt) | 33 | 297.0 × 209.9 | Descrição | 50 | 8.02 | 8.97 | 2.027 | Arial-BoldMT |
+| C · NOVA: A4 horizontal, tabela única (corpo e cabeçalhos 8,025 pt) | 33 | 297.0 × 209.9 | Valores mensais | 546 | 8.02 | 8.97 | 2.027 | Arial-BoldMT |
+| C · NOVA: A4 horizontal, tabela única (corpo e cabeçalhos 8,025 pt) | 33 | 297.0 × 209.9 | Cabeçalhos (meses/total/stock) | 38 | 8.02 | 8.97 | 2.027 | Arial-BoldMT |
